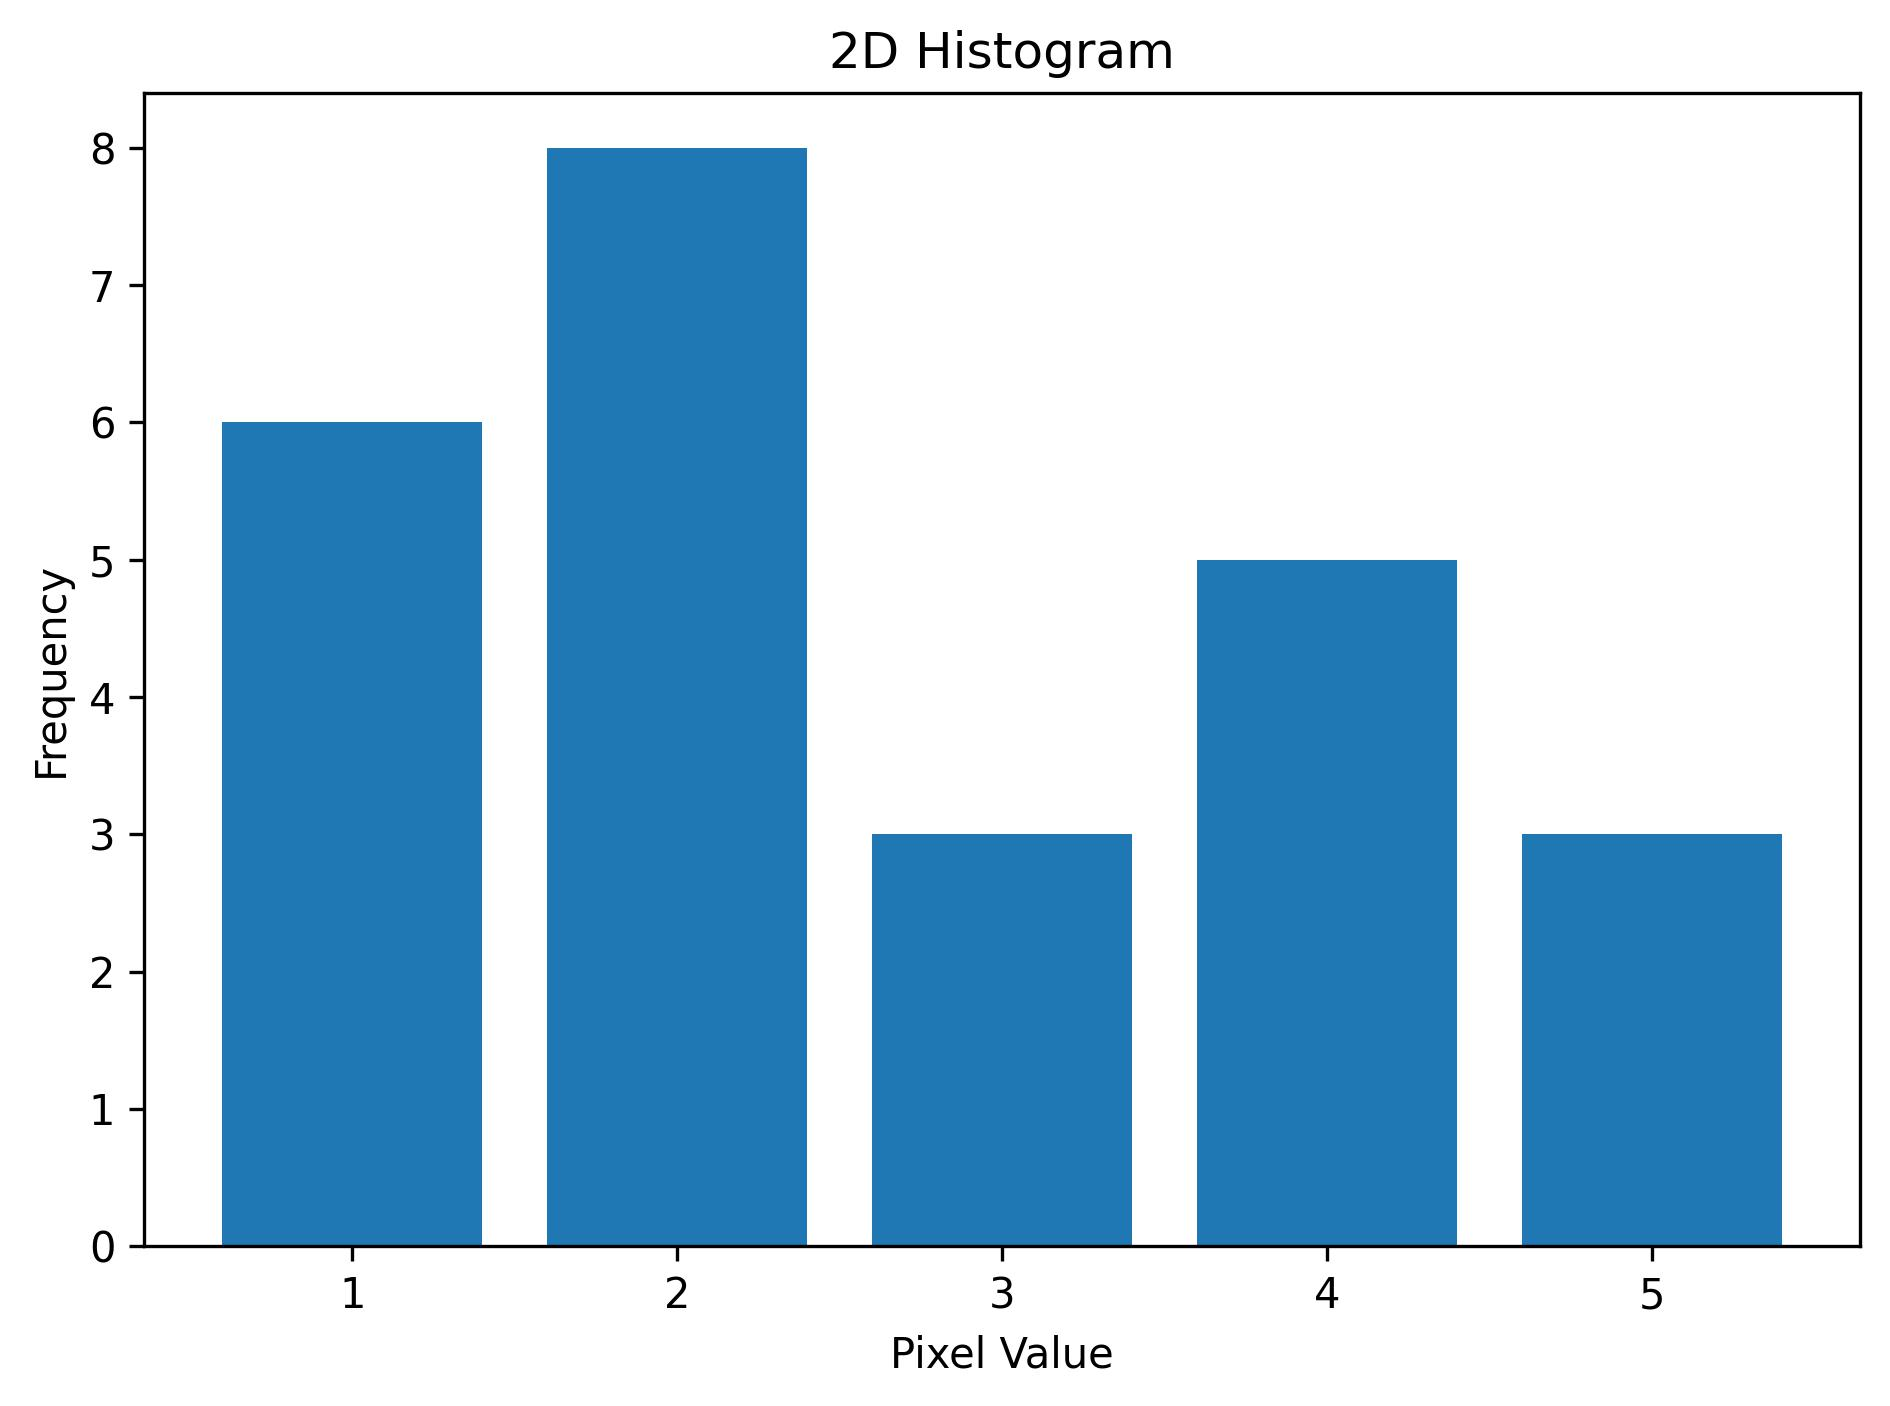
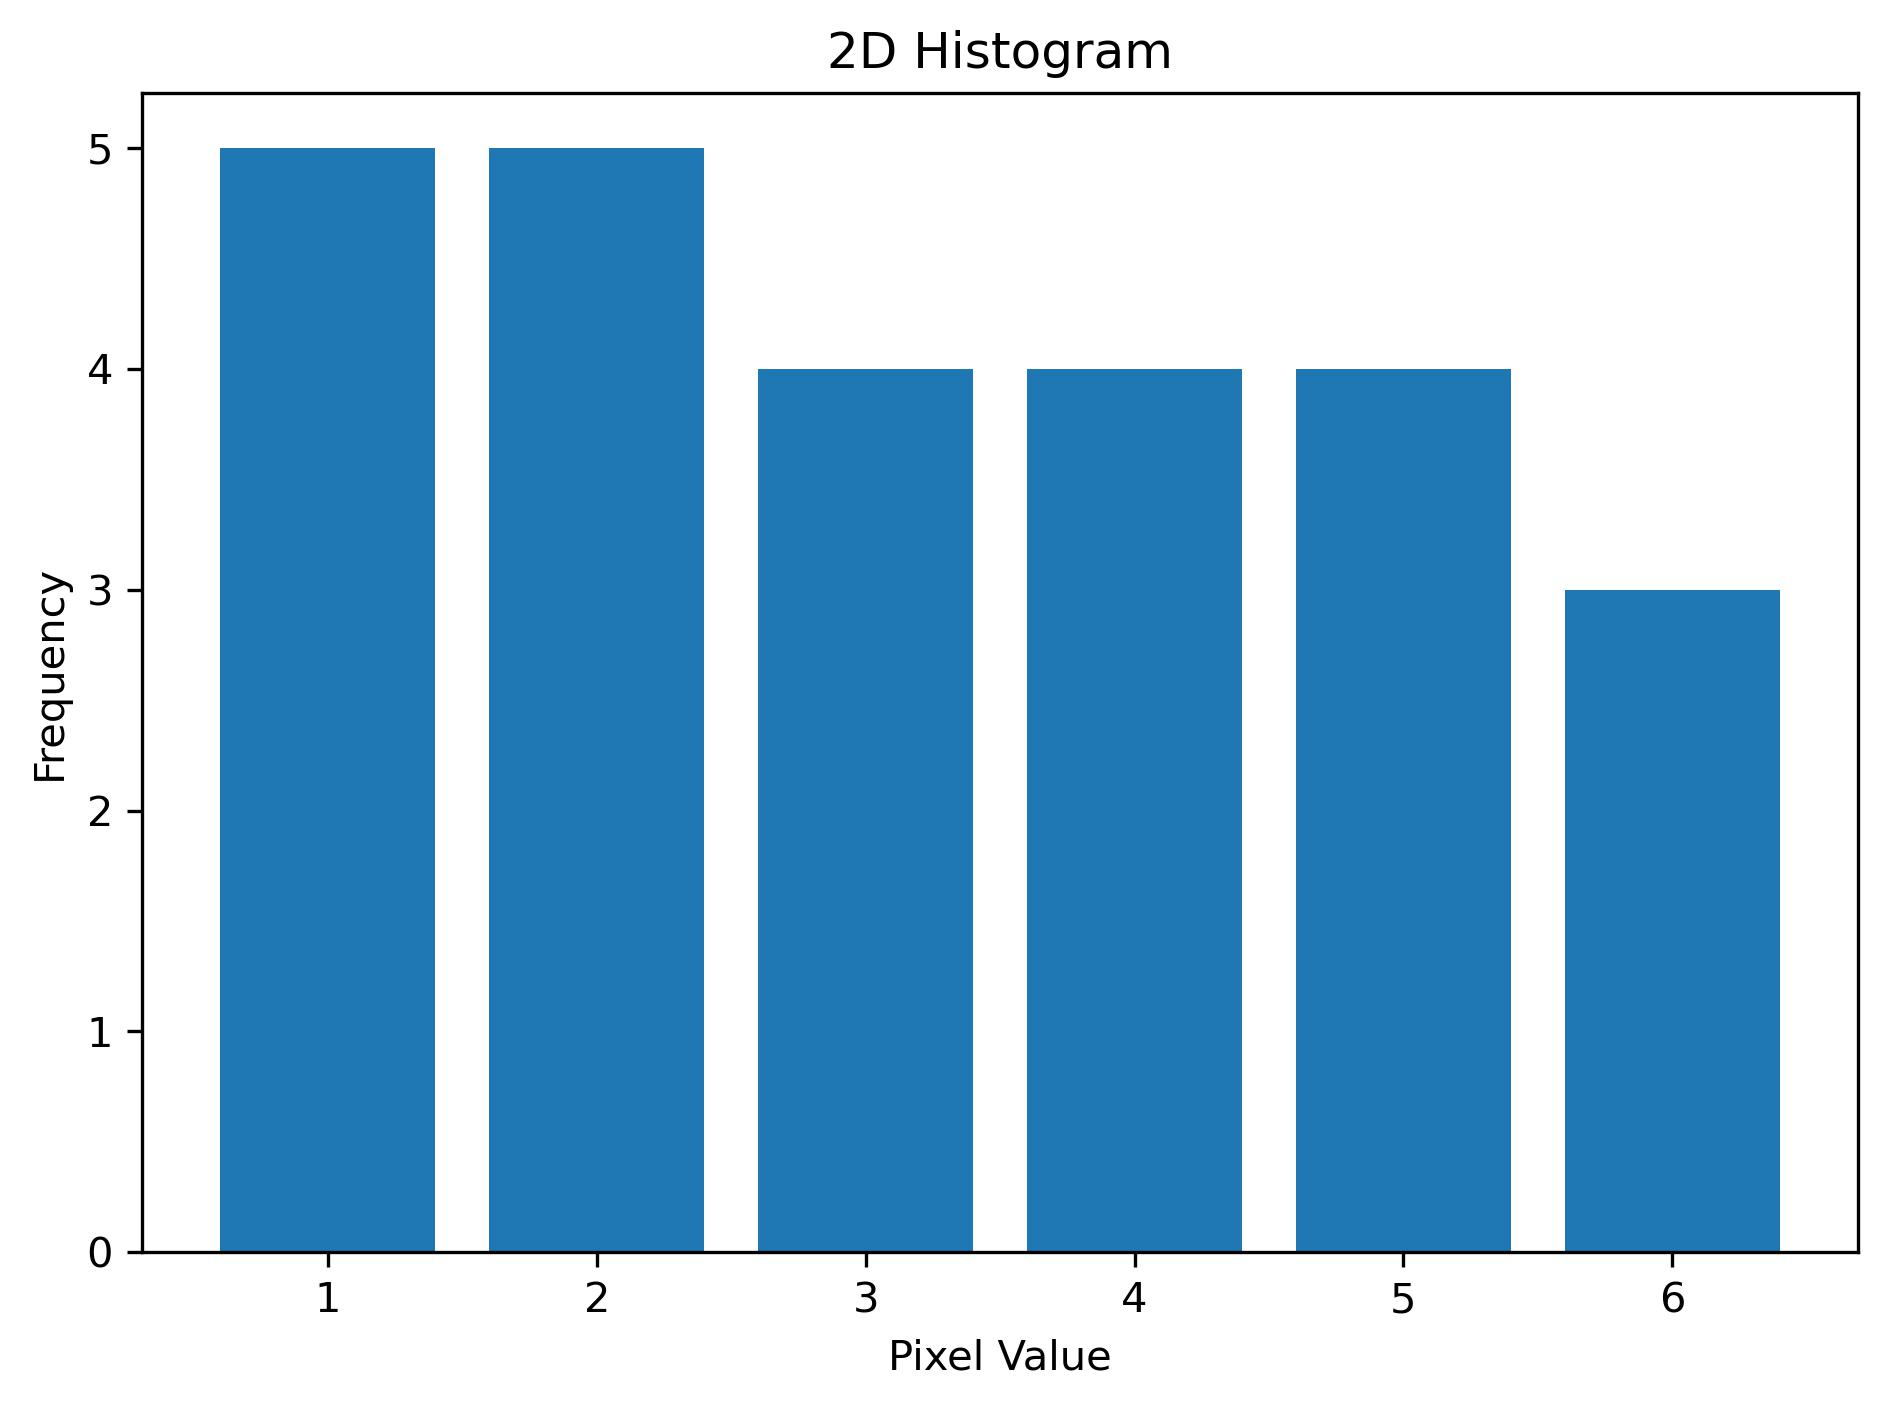
Updating the Contents.

Changed region(s): [[0.0, 0.0612, 0.9836, 0.9481], [0.461, 0.9481, 0.584, 0.9787], [0.0307, 0.8869, 0.0615, 0.9175]]

diff --git a/Lectures Scripts/[3] First Order Features Example.py b/Lectures Scripts/[3] First Order Features Example.py
@@ -32,6 +32,15 @@ X = np.array([
 #   [5, 5, 5, 1, 5],
 # ]).astype(np.uint8)  # Convert the array to unsigned 8-bit integers.
 
+# Another example 2D array (matrix) of pixel values.
+# X = np.array([
+#   [1, 2, 5, 6, 4],
+#   [3, 2, 5, 6, 1],
+#   [4, 5, 3, 2, 1],
+#   [6, 4, 1, 2, 3],
+#   [1, 4, 5, 2, 3],
+# ]).astype(np.uint8)  # Convert the array to unsigned 8-bit integers.
+
 # Calculate the histogram of the 2D array.
 min = int(np.min(X))  # Find the minimum value in the array.
 max = int(np.max(X))  # Find the maximum value in the array.
